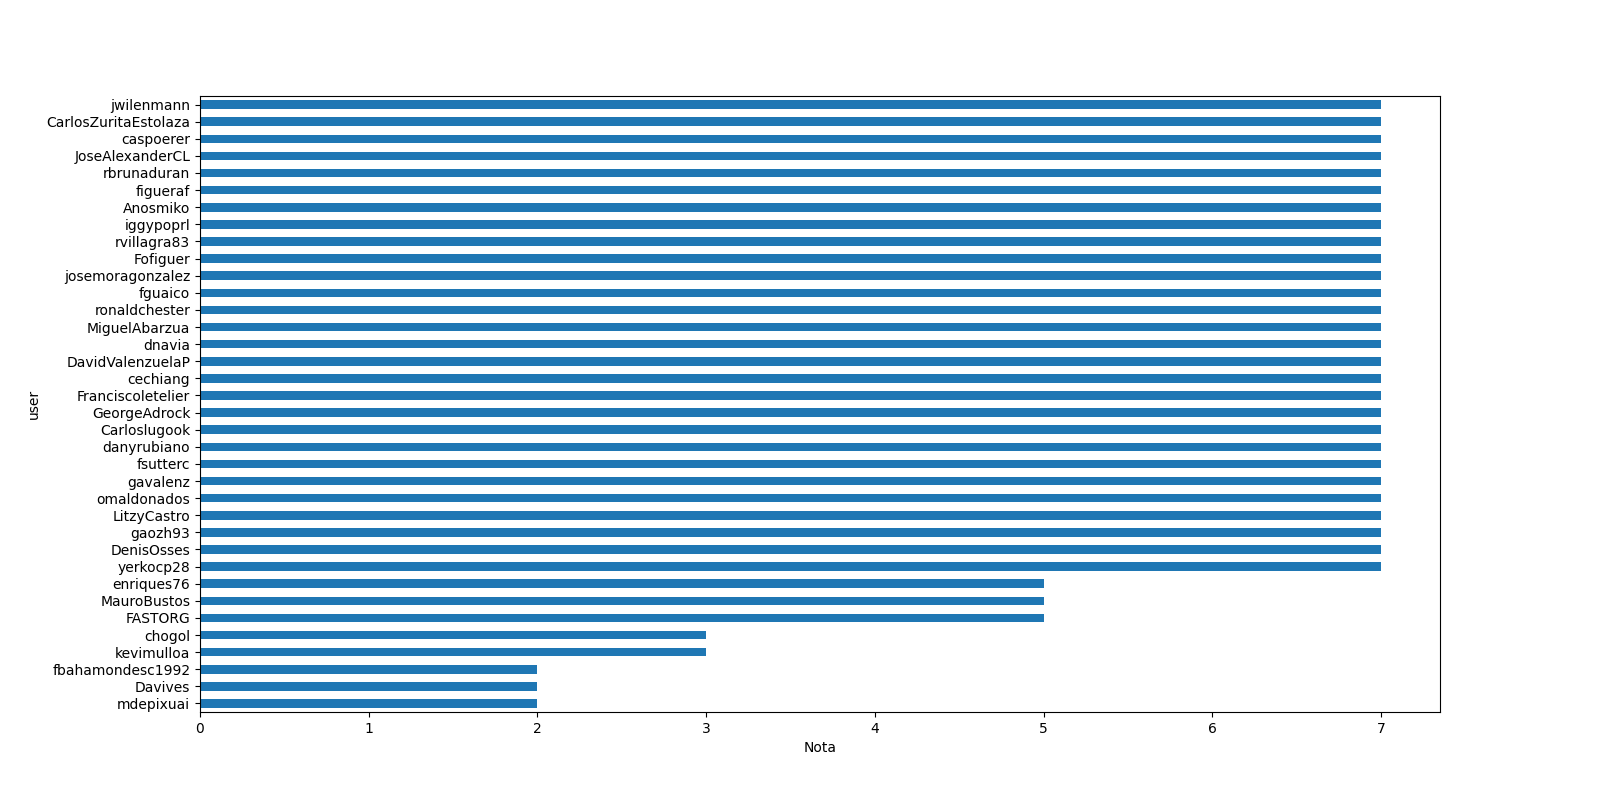
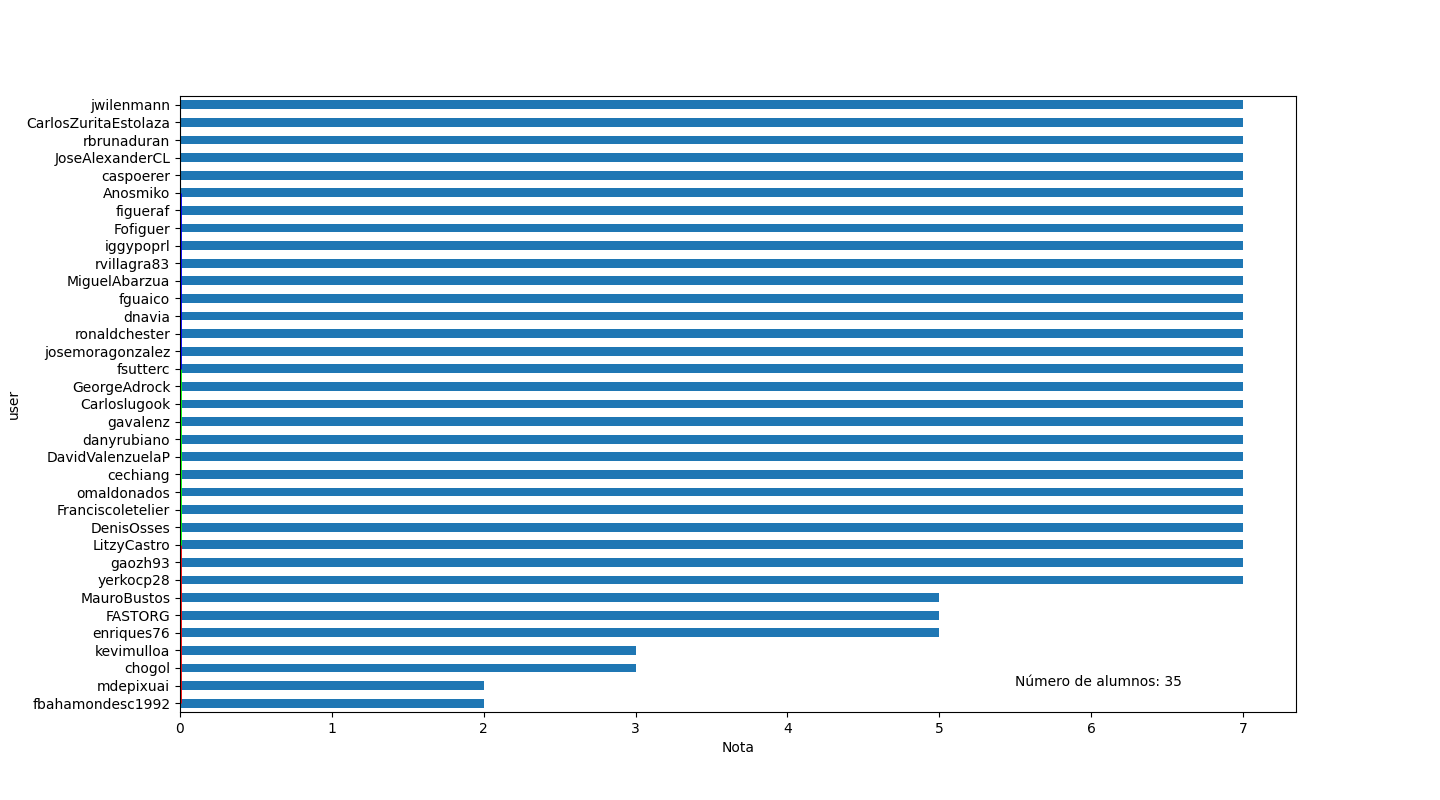
actualizar producto3

diff --git a/producto3/plot.py b/producto3/plot.py
@@ -2,6 +2,8 @@ from datetime import date
 from matplotlib import pyplot as plt
 import numpy as np
 import pandas as pd
+from matplotlib import collections  as mc
+
 
 # Importar los resultados
 
@@ -18,6 +20,7 @@ issue_count = issue_count.drop("Davives")
 # Usuarios asignados para issues cerrados
 assignee_count = df[df.state == "closed"].assignees.value_counts()
 assignee_count = assignee_count.drop("pescap")
+assignee_count = assignee_count.drop("Davives")
 assignee_count = assignee_count.drop("No one assigned")
 
 # Concatenar ambas listas
@@ -31,10 +34,23 @@ test["nota"] = concat.values
 nota = test.groupby(["user"])["nota"].sum().sort_values() + 1
 nota = nota.clip(upper=7)
 
+alumnos = nota.shape
+
 # Plot
-plt.figure(figsize=(16, 8))
+#plt.figure(figsize=(16, 8))
+
+fig, ax = plt.subplots(figsize = (16,8))
+
 nota.plot(kind="barh")
 plt.xlabel("Nota")
+c = np.array([(1, 0, 0, 1), (0, 1, 0, 1), (0, 0, 1, 1)])
+
+lines = [[(0, 0), (0, 9)], [(0, 9), (0, 19)], [(0, 19), (0, 29)]]
+
+#lines = [[(0, 0), (0, 5)], [(7.2, 7.2), (5, 10)]]
+lc = mc.LineCollection(lines, linewidths=2, colors=c)
+ax.add_collection(lc)
+plt.text(5.5,1,'Número de alumnos: %s'%alumnos)
 
 
 plt.show(block=False)

diff --git a/producto3/scraper.py b/producto3/scraper.py
@@ -17,7 +17,7 @@ df = pd.DataFrame(columns=columns)
 
 while run:
     url_name = "https://github.com/pescap/WebScrapingMDS/issues/" + str(issue)
-
+    print(issue, 'issue')
     # Recuperar el html
     url = requests.get(url_name)
     # Se checkea que no sea un PR
